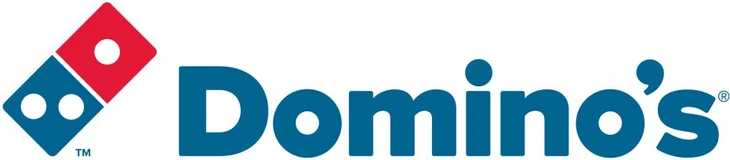
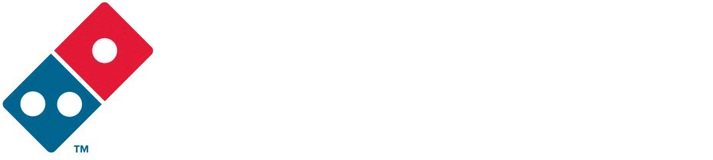
Vis partnerlogoene rett på den mørke flaten
- Logoene står uten hvit plate, i versjoner for mørk bakgrunn (symbol i farger, lys skrift)
- Fjernet «Annonse»-merket i partnerfeltet; overskriftene Hovedpartner og Partnere står igjen

Claude-Session: https://claude.ai/code/session_01HKAJ3DMcrgQ68sT164LiFR

diff --git a/index.html b/index.html
@@ -38,7 +38,6 @@
   --magenta-bunn: #7E0B5C;  /* bunnlinja, nederst */
   --magenta-tekst: #FF5AA5; /* rosa neon som tekst på mørkt */
   --paa-magenta: #FFFFFF;   /* tekst på magenta */
-  --plate: #FFFFFF;         /* hvit plate bak partnerlogoer, så de vises i egne farger */
   --paa-magenta-dempet: #FFC2DF;      /* dempede bokstaver i stor teller (desktop) */
   --paa-magenta-dempet-liten: #FFE3F0; /* dempede bokstaver under 24 px (mobil), ≥ 4,5:1 */
   --sol: #F76850;           /* solnedgang, brukes sparsomt */
@@ -375,7 +374,7 @@ p { margin: 0; }
 
 /* ---------- Partner ---------- */
 .partner { display: grid; gap: 10px; padding: 20px; border: 1px solid var(--strek); background: var(--flate2); }
-@media (min-width: 700px) { .partner { grid-template-columns: auto minmax(0, 1fr) auto; align-items: center; gap: 24px; } }
+@media (min-width: 700px) { .partner { grid-template-columns: minmax(0, 1fr) auto; align-items: center; gap: 24px; } }
 .annonse { justify-self: start; font: 700 12px/1 var(--f-tekst); letter-spacing: 0.06em; text-transform: uppercase; color: var(--svart); background: var(--dempet); padding: 5px 8px; }
 .partner-navn { font: 700 22px/1.2 var(--f-tekst); color: var(--tekst); text-decoration: none; display: inline-flex; min-height: 44px; align-items: center; }
 .partner-navn img { max-height: 44px; width: auto; }
@@ -384,11 +383,11 @@ p { margin: 0; }
 .partnere ul { list-style: none; margin: 0; padding: 0; display: flex; flex-wrap: wrap; column-gap: 28px; row-gap: 0; }
 .partnere .partner-navn { font-size: 19px; }
 .partnere .partner-navn img { max-height: 36px; }
-.plate { display: inline-flex; align-items: center; justify-content: center; background: var(--plate); padding: 12px 18px; }
-.partner-navn .plate img { display: block; height: 40px; max-height: none; width: auto; max-width: 100%; }
-.partnere ul { gap: 12px; }
-.partnere .plate { padding: 10px 14px; }
-.partnere .partner-navn .plate img { height: 28px; }
+.plate { display: inline-flex; align-items: center; padding-block: 8px; }   /* logoene står rett på den mørke flaten */
+.partner-navn .plate img { display: block; height: 46px; max-height: none; width: auto; max-width: 100%; }
+.partnere ul { column-gap: 40px; row-gap: 10px; align-items: center; }
+.partnere .partner-navn .plate img { height: 34px; }
+@media (max-width: 420px) { .partner-navn .plate img { height: 40px; } .partnere ul { column-gap: 28px; } .partnere .partner-navn .plate img { height: 30px; } }
 
 /* ---------- FAQ ---------- */
 .faq { max-width: 780px; border-top: 1px solid var(--strek); }
@@ -547,7 +546,6 @@ p { margin: 0; }
   <section class="seksjon" id="partner-seksjon" aria-label="Partner">
     <div class="wrap">
       <div class="partner">
-        <span class="annonse">Annonse</span>
         <div><p>Hovedpartner</p><div id="partner-navn"></div></div>
         <p>Westerthon lages i samarbeid med <span id="partner-navn2"></span>.</p>
         <div class="partnere" id="partnere" hidden><p>Partnere</p><ul id="partnere-liste"></ul></div>

diff --git a/README.md b/README.md
@@ -31,7 +31,7 @@ Repoet er offentlig. Alt som ligger her, kan leses av alle.
 - **Gjester (`gjester`):** `{ navn: "Navn", rolle: "Dagens gjest", dato: "2026-11-15" },`. Bare bekreftede navn.
 - **Kofferten (`koffert`):** `pott: 25000` viser beløpet (`null` skjuler det). Lås opp et hint ved å bytte `{ tekst: null }` med `{ tekst: "Hinttekst" }`. Bilde fra viltkameraet: `bilde: "viltkamera.jpg"`.
 - **Tekstbåndet (`band`):** tekstene som ruller over siden.
-- **Partnere (`partner` og `partnere`):** `partner` er hovedpartneren, `partnere` er lista under. `lenke: "https://…"` gjør navnet klikkbart, og `logo: "assets/partnere/filnavn.webp"` viser logoen på en hvit plate. Logofilene ligger i `assets/partnere/`. Legg til eller fjern en linje i `partnere` for å endre lista.
+- **Partnere (`partner` og `partnere`):** `partner` er hovedpartneren, `partnere` er lista under. `lenke: "https://…"` gjør navnet klikkbart, og `logo: "assets/partnere/filnavn.webp"` viser logoen rett på den mørke flaten. Bruk en versjon laget for mørk bakgrunn (lys skrift, gjennomsiktig bakgrunn). Logofilene ligger i `assets/partnere/`. Legg til eller fjern en linje i `partnere` for å endre lista.
 - **Spørsmål (`faq`):** `{ q: "Spørsmål?", a: "Svar." },`.
 - **Lenker (`lenker`):** fyll inn adressen til TikTok, Instagram og YouTube. Tomme felt vises ikke.
 - **Modus:** `"auto"` går live av seg selv kl. 15:00 den 14.11. Skriv `"ferdig"` når det er over.
